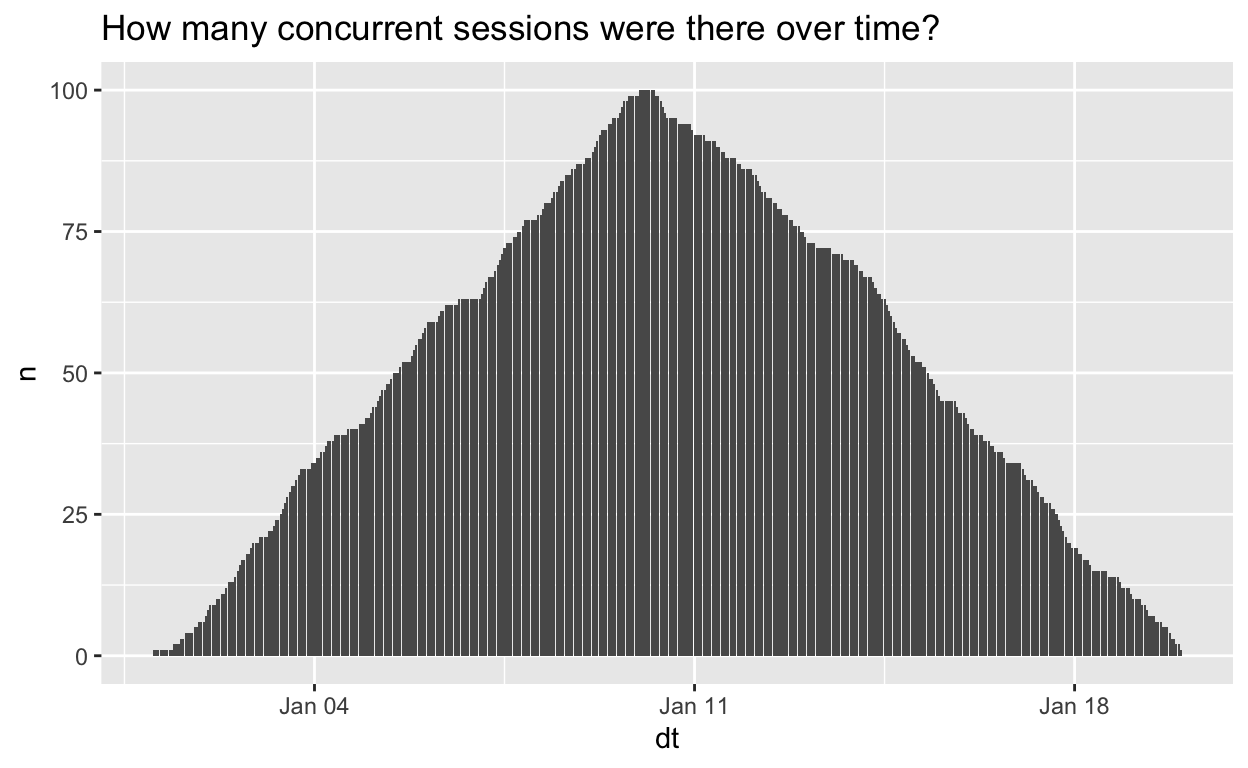
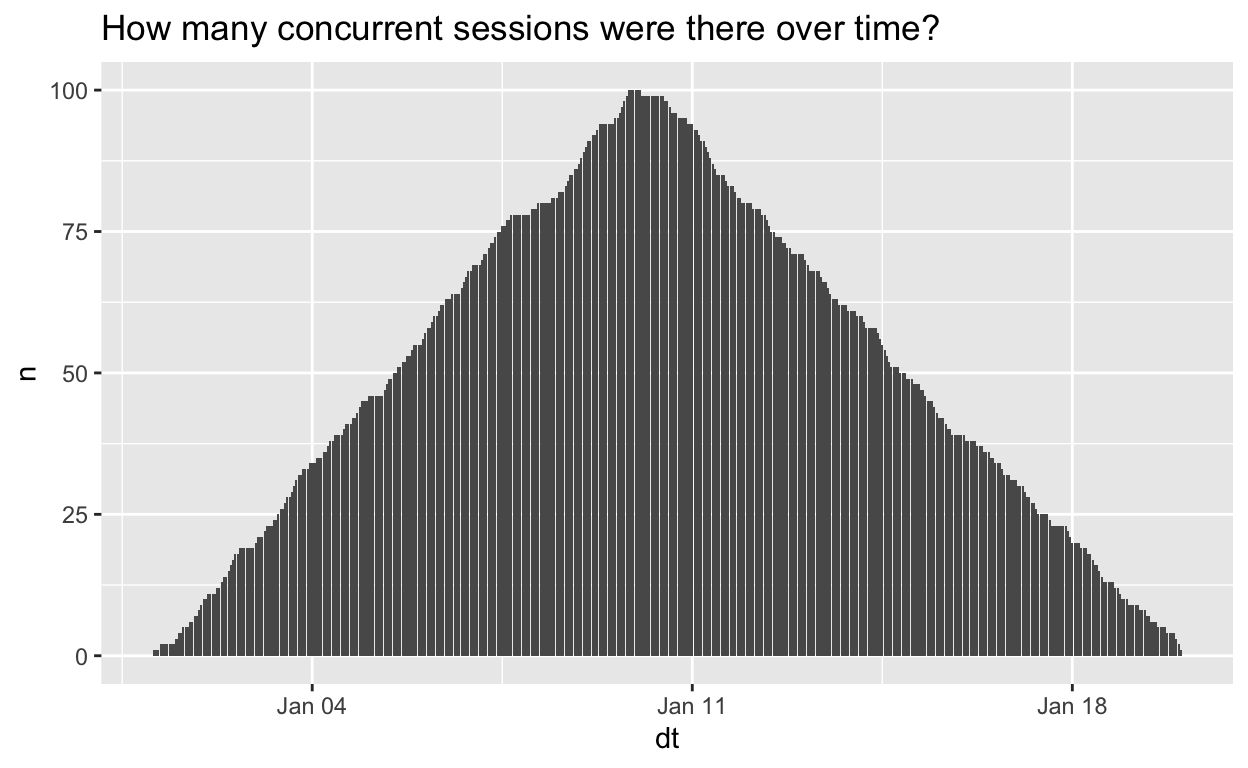
fixing table

diff --git a/_posts/2021-01-23-counting-in-time-intervals/counting-in-time-intervals.html b/_posts/2021-01-23-counting-in-time-intervals/counting-in-time-intervals.html
@@ -1514,25 +1514,26 @@ code span.wa { color: #5e5e5e; font-style: italic; } /* Warning */
 <div class="sourceCode">
 <pre class="sourceCode r"><code class="sourceCode r"><span class='va'>event_data_expanded</span> <span class='op'>&lt;-</span> <span class='va'>event_data_seq</span> <span class='op'>%&gt;%</span>
   <span class='fu'>unnest</span><span class='op'>(</span><span class='va'>dt_sequences</span><span class='op'>)</span> <span class='op'>%&gt;%</span>
-  <span class='fu'>rename</span><span class='op'>(</span>dt <span class='op'>=</span> <span class='va'>dt_sequences</span><span class='op'>)</span>
+  <span class='fu'>rename</span><span class='op'>(</span>dt <span class='op'>=</span> <span class='va'>dt_sequences</span><span class='op'>)</span> <span class='op'>%&gt;%</span>
+  <span class='fu'>select</span><span class='op'>(</span><span class='va'>event_num</span>, <span class='va'>dt</span><span class='op'>)</span>
 
 <span class='va'>event_data_expanded</span> 
 </code></pre>
 </div>
-<pre><code># A tibble: 23,366 x 4
-   event_num login               logout             
-   &lt;chr&gt;     &lt;dttm&gt;              &lt;dttm&gt;             
- 1 session_1 2021-01-02 18:00:00 2021-01-17 05:00:00
- 2 session_1 2021-01-02 18:00:00 2021-01-17 05:00:00
- 3 session_1 2021-01-02 18:00:00 2021-01-17 05:00:00
- 4 session_1 2021-01-02 18:00:00 2021-01-17 05:00:00
- 5 session_1 2021-01-02 18:00:00 2021-01-17 05:00:00
- 6 session_1 2021-01-02 18:00:00 2021-01-17 05:00:00
- 7 session_1 2021-01-02 18:00:00 2021-01-17 05:00:00
- 8 session_1 2021-01-02 18:00:00 2021-01-17 05:00:00
- 9 session_1 2021-01-02 18:00:00 2021-01-17 05:00:00
-10 session_1 2021-01-02 18:00:00 2021-01-17 05:00:00
-# … with 23,356 more rows, and 1 more variable: dt &lt;dttm&gt;</code></pre>
+<pre><code># A tibble: 22,891 x 2
+   event_num dt                 
+   &lt;chr&gt;     &lt;dttm&gt;             
+ 1 session_1 2021-01-07 10:00:00
+ 2 session_1 2021-01-07 11:00:00
+ 3 session_1 2021-01-07 12:00:00
+ 4 session_1 2021-01-07 13:00:00
+ 5 session_1 2021-01-07 14:00:00
+ 6 session_1 2021-01-07 15:00:00
+ 7 session_1 2021-01-07 16:00:00
+ 8 session_1 2021-01-07 17:00:00
+ 9 session_1 2021-01-07 18:00:00
+10 session_1 2021-01-07 19:00:00
+# … with 22,881 more rows</code></pre>
 </div>
 <p>Great! Now the dt column has all the minutes that each session was active expanded in a tidy format.</p>
 <h1 id="visualizing">Visualizing</h1>

diff --git a/_site/posts/2021-01-23-counting-in-time-intervals/index.html b/_site/posts/2021-01-23-counting-in-time-intervals/index.html
@@ -2152,25 +2152,26 @@ document.addEventListener('DOMContentLoaded', function() {
 <div class="sourceCode">
 <pre class="sourceCode r"><code class="sourceCode r"><span class='va'>event_data_expanded</span> <span class='op'>&lt;-</span> <span class='va'>event_data_seq</span> <span class='op'>%&gt;%</span>
   <span class='fu'>unnest</span><span class='op'>(</span><span class='va'>dt_sequences</span><span class='op'>)</span> <span class='op'>%&gt;%</span>
-  <span class='fu'>rename</span><span class='op'>(</span>dt <span class='op'>=</span> <span class='va'>dt_sequences</span><span class='op'>)</span>
+  <span class='fu'>rename</span><span class='op'>(</span>dt <span class='op'>=</span> <span class='va'>dt_sequences</span><span class='op'>)</span> <span class='op'>%&gt;%</span>
+  <span class='fu'>select</span><span class='op'>(</span><span class='va'>event_num</span>, <span class='va'>dt</span><span class='op'>)</span>
 
 <span class='va'>event_data_expanded</span> 
 </code></pre>
 </div>
-<pre><code># A tibble: 23,366 x 4
-   event_num login               logout             
-   &lt;chr&gt;     &lt;dttm&gt;              &lt;dttm&gt;             
- 1 session_1 2021-01-02 18:00:00 2021-01-17 05:00:00
- 2 session_1 2021-01-02 18:00:00 2021-01-17 05:00:00
- 3 session_1 2021-01-02 18:00:00 2021-01-17 05:00:00
- 4 session_1 2021-01-02 18:00:00 2021-01-17 05:00:00
- 5 session_1 2021-01-02 18:00:00 2021-01-17 05:00:00
- 6 session_1 2021-01-02 18:00:00 2021-01-17 05:00:00
- 7 session_1 2021-01-02 18:00:00 2021-01-17 05:00:00
- 8 session_1 2021-01-02 18:00:00 2021-01-17 05:00:00
- 9 session_1 2021-01-02 18:00:00 2021-01-17 05:00:00
-10 session_1 2021-01-02 18:00:00 2021-01-17 05:00:00
-# … with 23,356 more rows, and 1 more variable: dt &lt;dttm&gt;</code></pre>
+<pre><code># A tibble: 22,891 x 2
+   event_num dt                 
+   &lt;chr&gt;     &lt;dttm&gt;             
+ 1 session_1 2021-01-07 10:00:00
+ 2 session_1 2021-01-07 11:00:00
+ 3 session_1 2021-01-07 12:00:00
+ 4 session_1 2021-01-07 13:00:00
+ 5 session_1 2021-01-07 14:00:00
+ 6 session_1 2021-01-07 15:00:00
+ 7 session_1 2021-01-07 16:00:00
+ 8 session_1 2021-01-07 17:00:00
+ 9 session_1 2021-01-07 18:00:00
+10 session_1 2021-01-07 19:00:00
+# … with 22,881 more rows</code></pre>
 </div>
 <p>Great! Now the dt column has all the minutes that each session was active expanded in a tidy format.</p>
 <h1 id="visualizing">Visualizing</h1>
